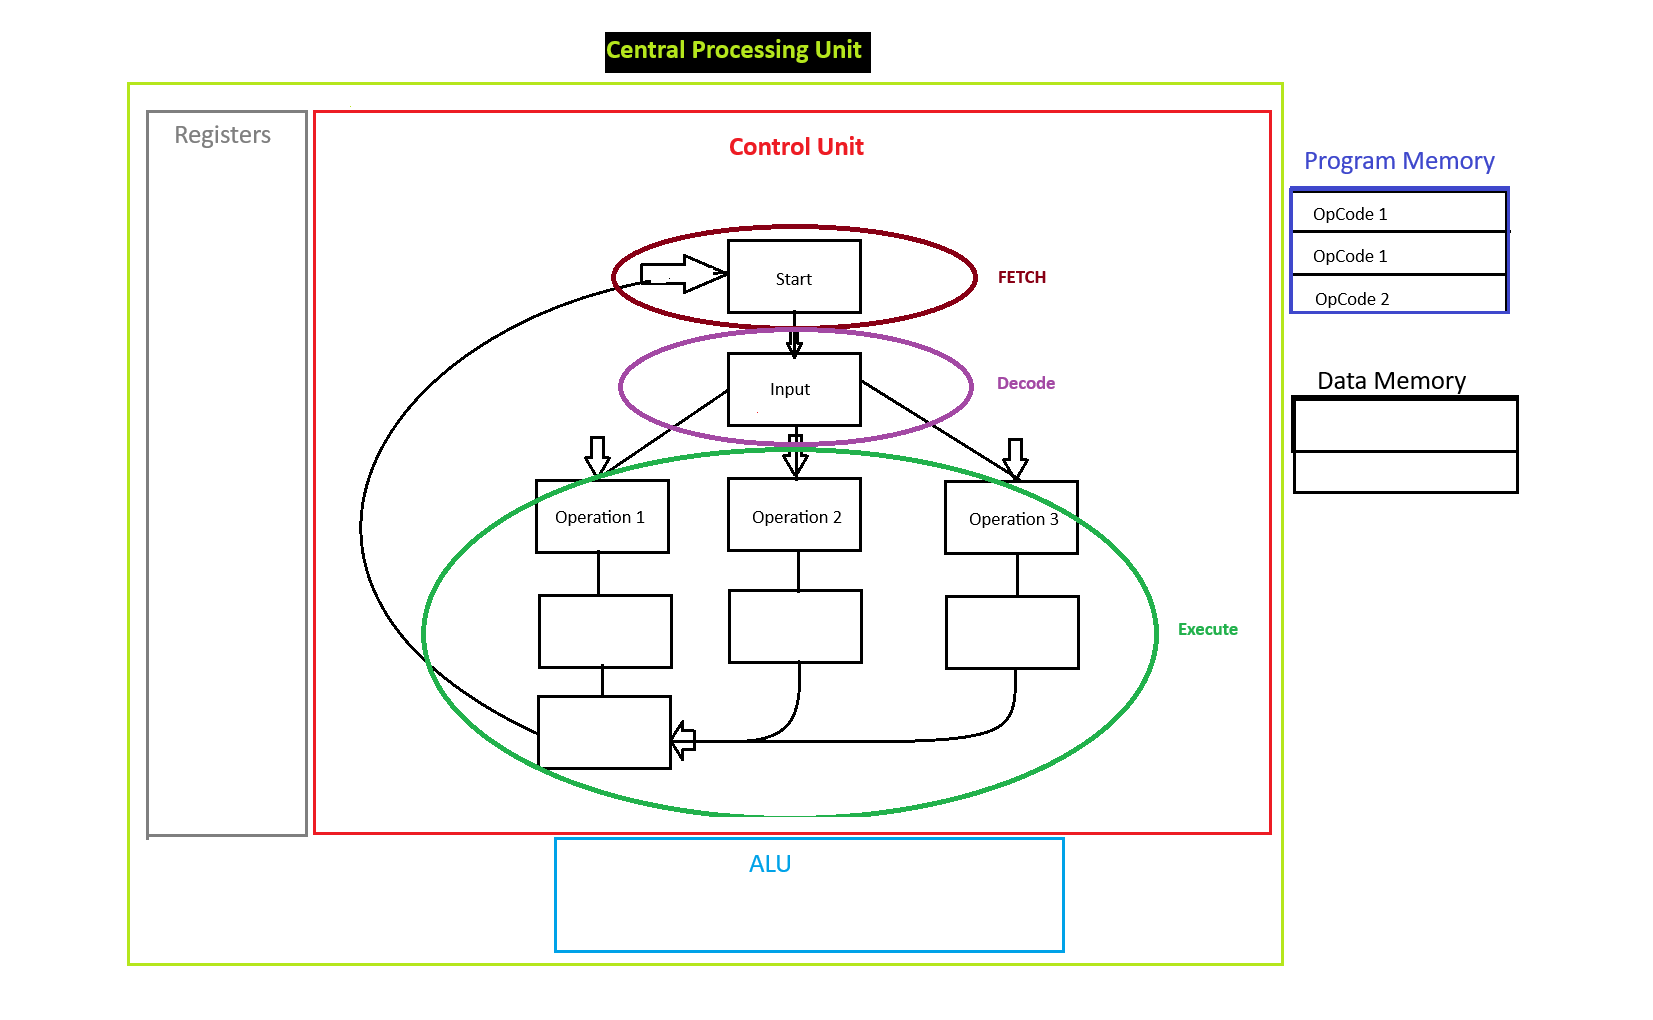
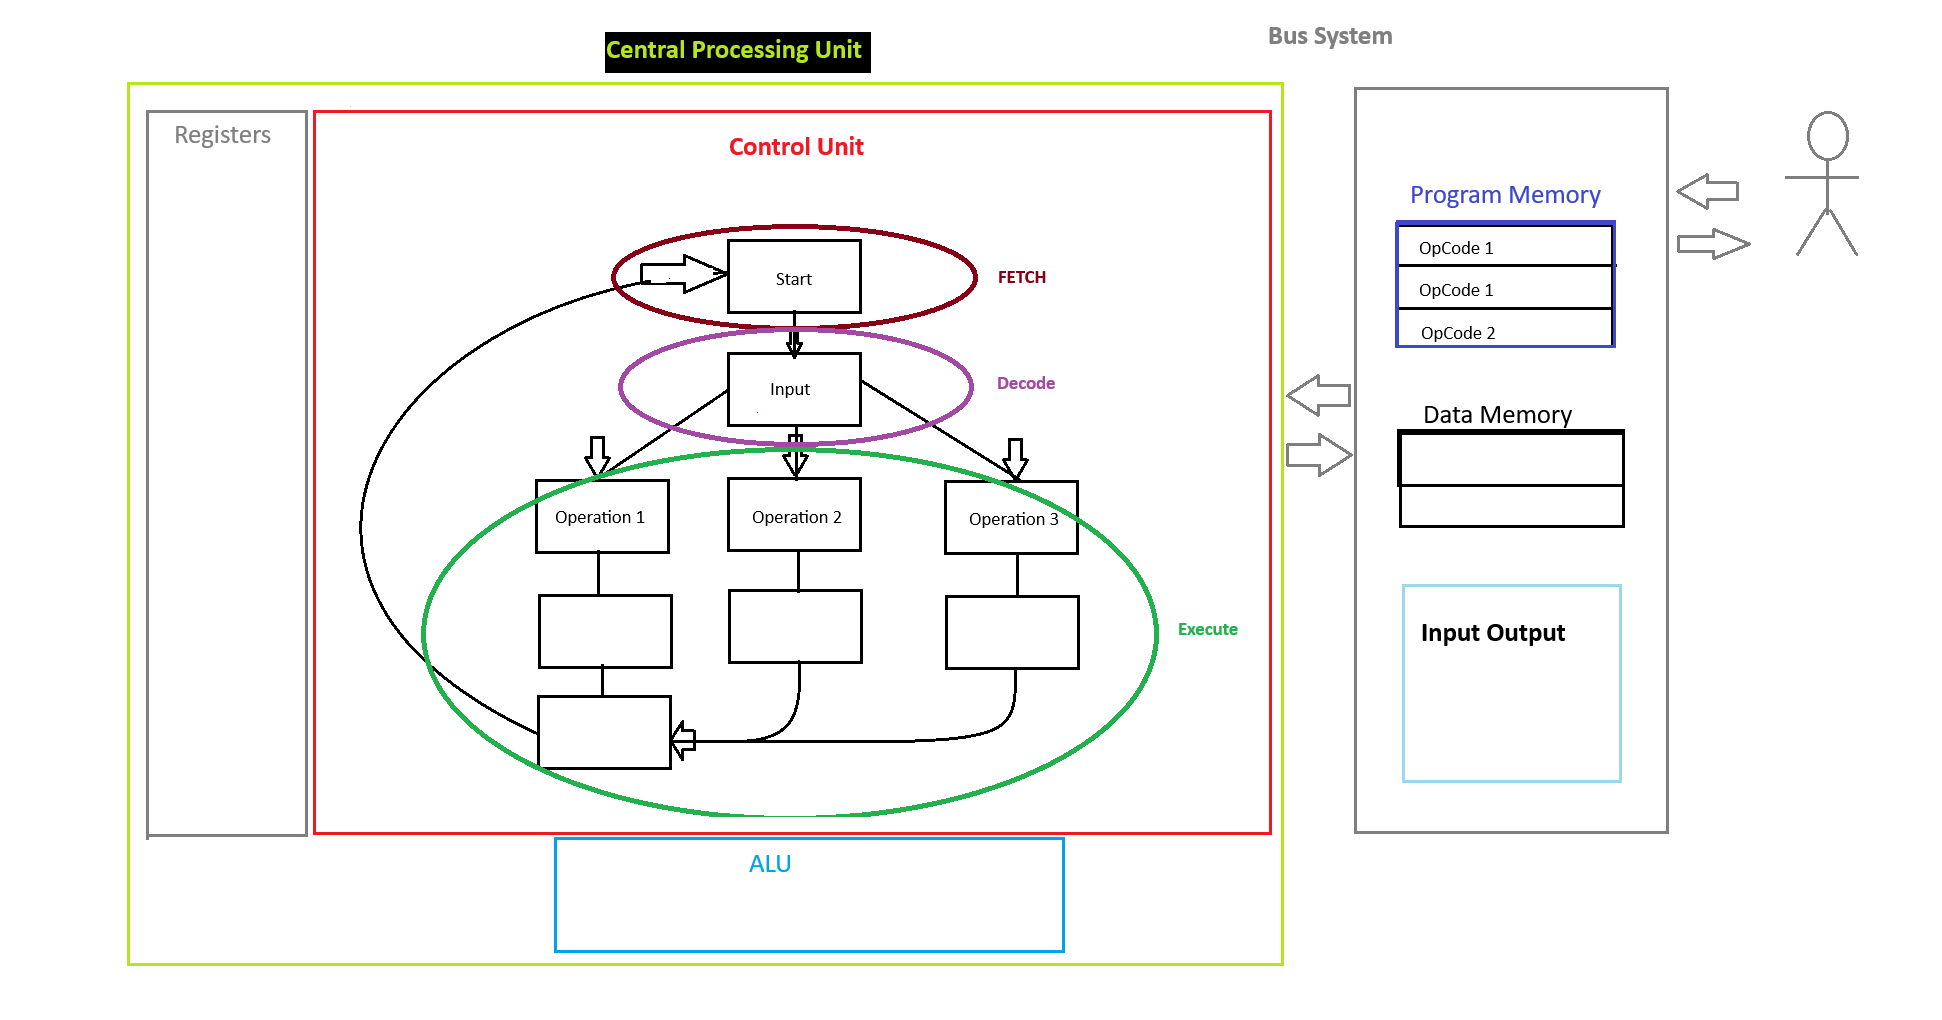
Adding notes to Basic

diff --git a/Embedded_Systems/Basic_Notes.md b/Embedded_Systems/Basic_Notes.md
@@ -29,10 +29,47 @@ Above we have a **Finite State Machine** (FSM Diagram) where when given an input
 
 So in this case SOFTWARE is the sequence of instructions the hardware will execute = Computer
 The NUMBER OF INSTRUCTIONS the computer is designed to execute is called **INSTRUCTION SET**
-Side Note - A register is also memory but its stored inside the CPU vs memory like RAM which is external. So these OpCodes aren't in registers.
+
+Side Note - A register is also memory but its stored inside the CPU vs memory like RAM which is external. So these OpCodes aren't in registers. RAMs are **DATA MEMORY** or places where you can temporary store data
 
 ## 3.2 Computer Hardware
-Control Unit - Knows how to fetch, decode, and execute data. Fetch is what gets the operation code from the **PROGRAM MEMORY** and then decode is what interprets the instruction and picks the operation path to execute 
+**Control Unit** Knows how to fetch, decode, and execute data. Fetch is what gets the operation code from the **PROGRAM MEMORY** and then decode is what interprets the instruction and picks the operation path to execute 
 
+Data Memory are things like RAMs where you can temporary store data
+
+**Registers** are fast storage inside the Control Unit. They are synchronus and they have enables so you can control when information can be stored and when they cannot. Some of these registers are going to be dedicated and some of them are going to be general purpose. FSM cannot store numbers or store information. So thats where registers come in. If we needed to add numbers, we would need to store the numbers in register temporarily
+
+**Arithmetic Logic Unit (ALU)** - All the combinational logic that we put into our computer that perform all the operations we want. We can do plus minus ands ors etc. So any instruction logic has to be implemented in combinational logic within the ALU block. 
+
+The way it works is that the Control Unit will know and configure the ALU to get ready for its operations and it will know what to do with the results. The ALU will operate on Registers most of the time.
+
+Example, instruction states to add two integers. The two int values will be stored in the registers, the ALU will perform the arithmetic and store the result in a different register for Control Unit to use 
 
 ![alt text](FSM.png)
+
+**Bus Systems**
+How these components talk to each other. The Inout and Output component is for the user to interact with the computer.
+![alt text](<Screenshot 2025-07-01 170454.png>)
+
+### Summary
+Program memory (non-volatile) will hold OpCode but also, additional information needed by the instruction. You treat this as read only memory. Programs stored on non-volatile memory, so the computer system does not lose its program when power is removed.
+
+Data Memory (volatile - read-write memory) hold temporary variables that are created by the software program. can be written to and read from during normal operations. 
+
+CPU - 3 sub systems 1. Registers 2. Arithmetic/Logic Unit ALU 3. Control Unit
+Control Unit - Fetch -> Decode - Execute. This cycle continues over and over again
+Registers - Dedicated registers and General purpose registers
+    - Program Counter - Holds the address of the next instruction in program memory to execute
+    - Stack Pointer - Way to allocate memory dynamically without having to keep track of specific address
+    - Status Register - Contains flags that are asserted when various conditions occur during the execution of program
+    - Instruction Register - holds the OpCode that is fetched from program
+    - General purpose
+
+ALU - The system that performs all mathematical and logic operations. Contains the logic to produce status bits
+
+I/O Ports - Access the outside world, can be input output or bidirectional. Parallel ports - pass data as a bus and allow more information to be transferred per instruction. Serial Ports - use a single line and send data bit by bit
+
+Bus System - Handles routing of signals between cpu and memory. I/O ports, data memory, and program memory share the address and data busses
+    - Memory Address Bus (MAB) - provides a single address to data memory, program memory, and the I/O ports.
+    - Memory Data Bus (MDB) - Carries information back and forth between the CPU and the memory & I/O ports
+    - Memory Map - gives all the addresses for all locations in memory. So Data Memory, Program Memory, and I/O ports are assigned a unique address
